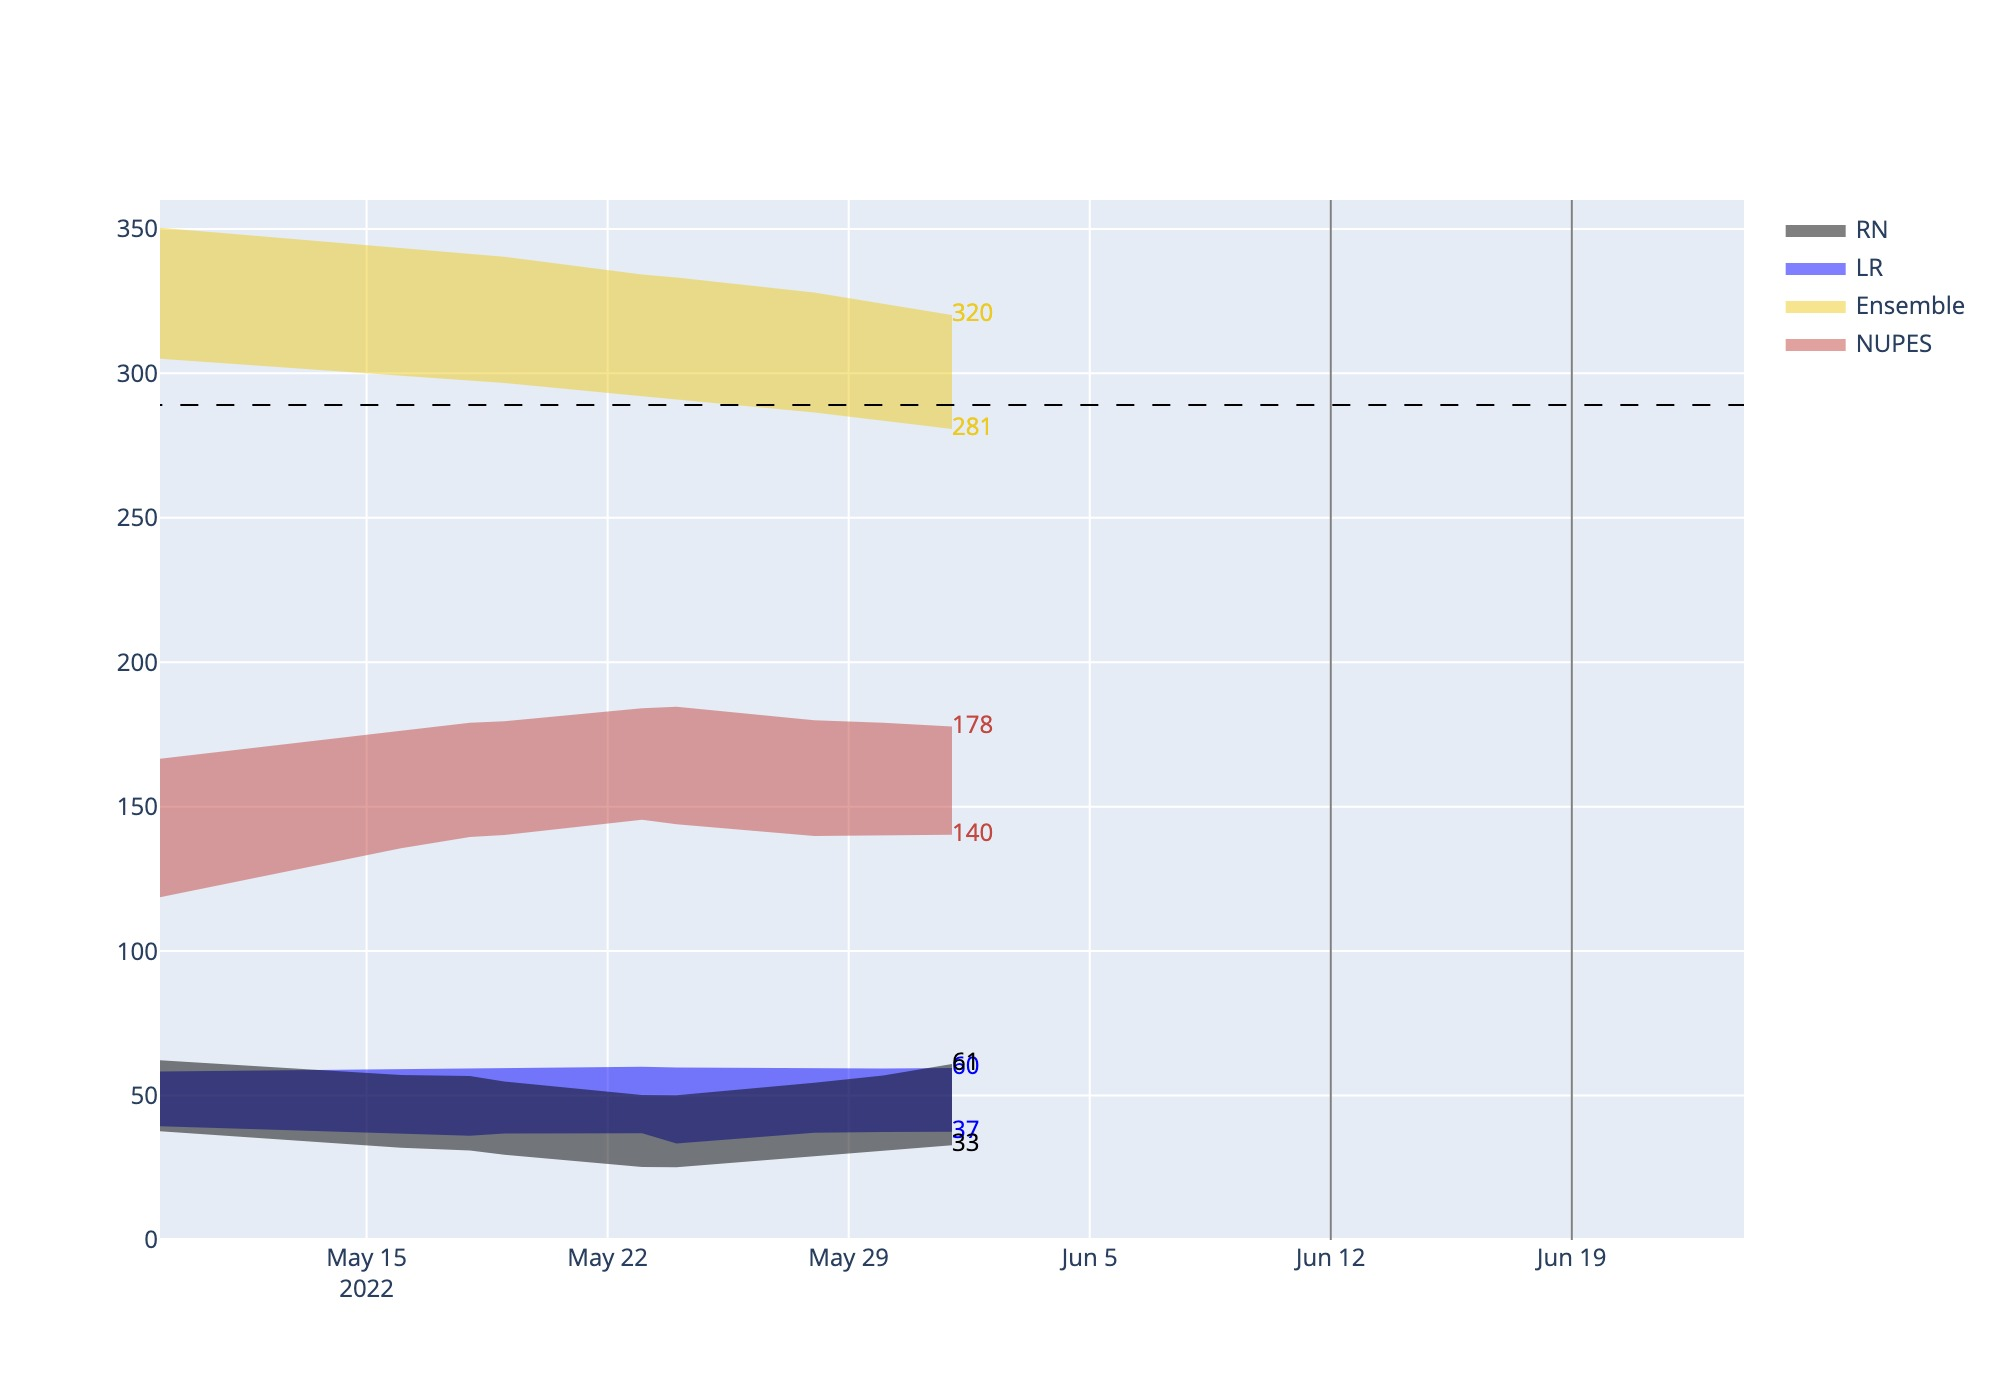
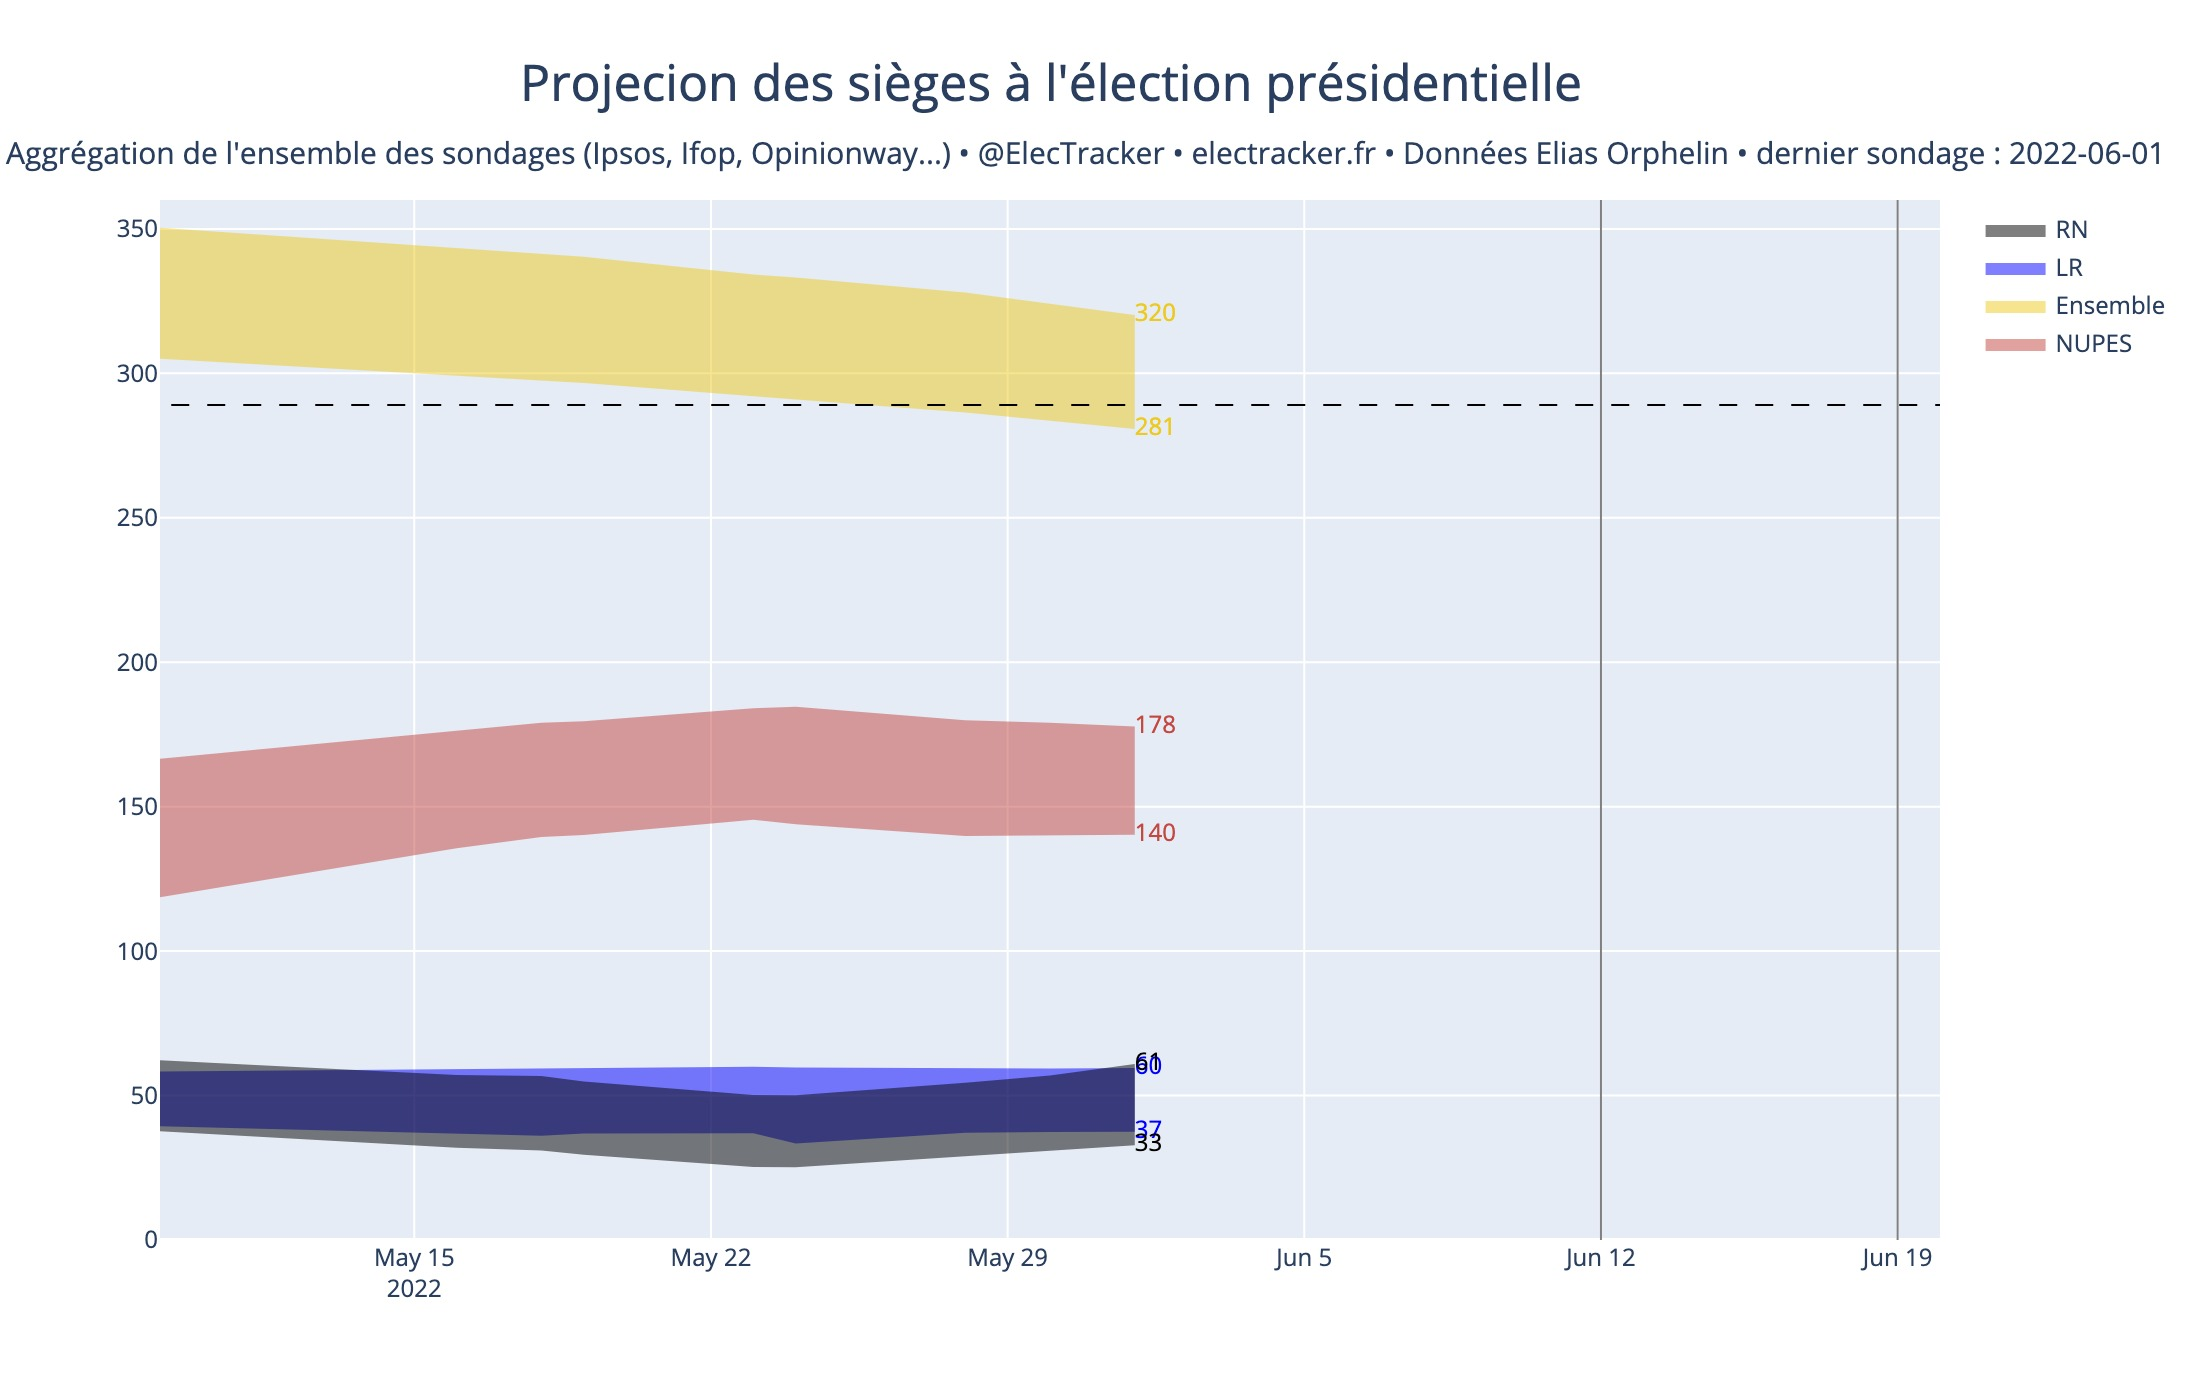
Ajout du titre au graphique

diff --git a/src/graphique.py b/src/graphique.py
@@ -76,7 +76,32 @@ fig.add_shape(type="line",
     )
 )
 
-fig.update_xaxes(range=[data["Ensemble"]["fin_enquete"][0], "2022-06-24"])
+fig.update_xaxes(range=[data["Ensemble"]["fin_enquete"][0], "2022-06-20"])
 fig.update_yaxes(range=[0, 360])
 
-fig.write_image("SondagesLegislativesLoess.jpeg", width=1000, height=700, scale=2)
+fig.add_annotation(
+    {
+        "x": 0.5,
+        "y": 1.15,
+        "xref": "paper",
+        "yref": "paper",
+        "text": f"Projecion des sièges à l'élection présidentielle",
+        "font": {"size": 25,},
+        "xanchor": "center",
+        "showarrow": False,
+    })
+
+fig.add_annotation(
+    {
+        "x": 0.52,
+        "y": 1.07,
+        "xref": "paper",
+        "yref": "paper",
+        "text": f"Aggrégation de l'ensemble des sondages (Ipsos, Ifop, Opinionway...) • @ElecTracker • electracker.fr • Données Elias Orphelin • dernier sondage : {data['Ensemble']['fin_enquete'][-1]}",
+        "font": {"size": 15},
+        "xanchor": "center",
+        "showarrow": False,
+    }
+)
+
+fig.write_image("SondagesLegislativesLoess.jpeg", width=1100, height=700, scale=2)
